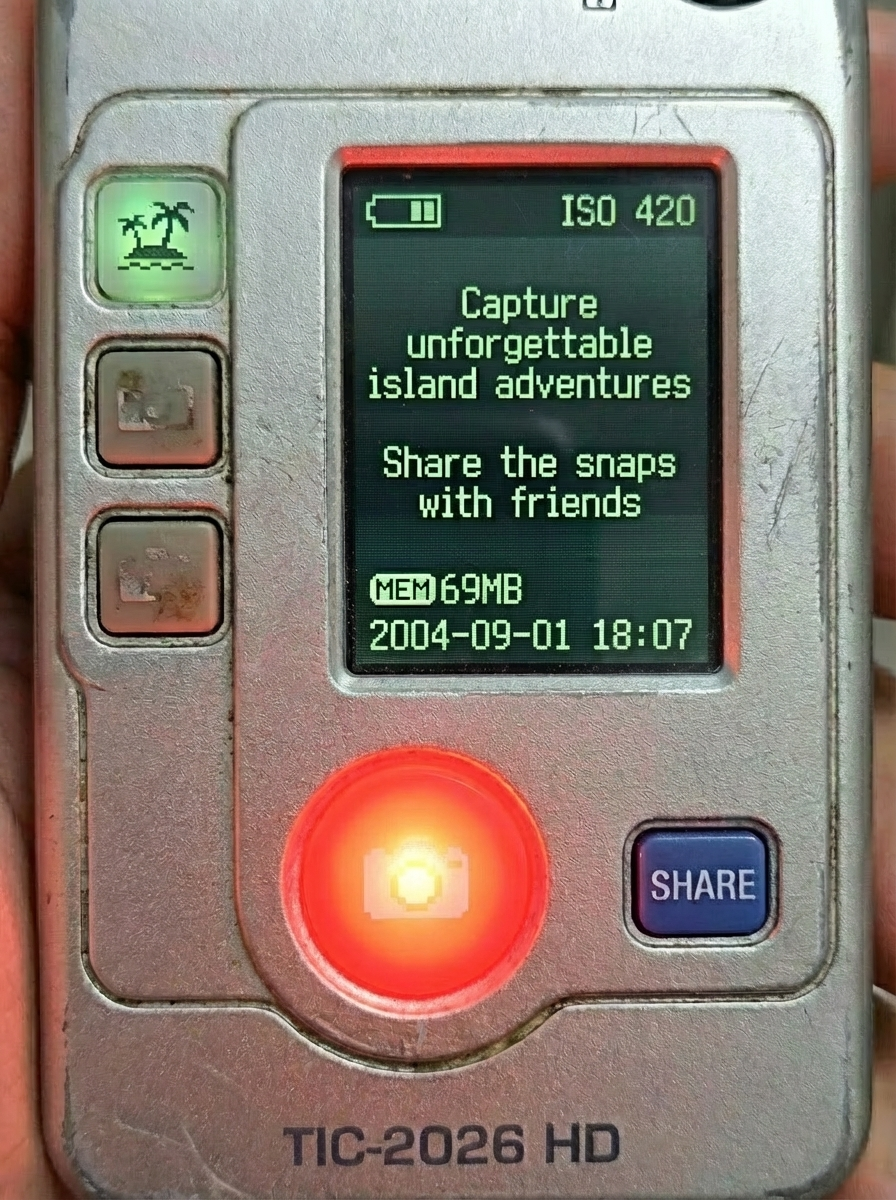
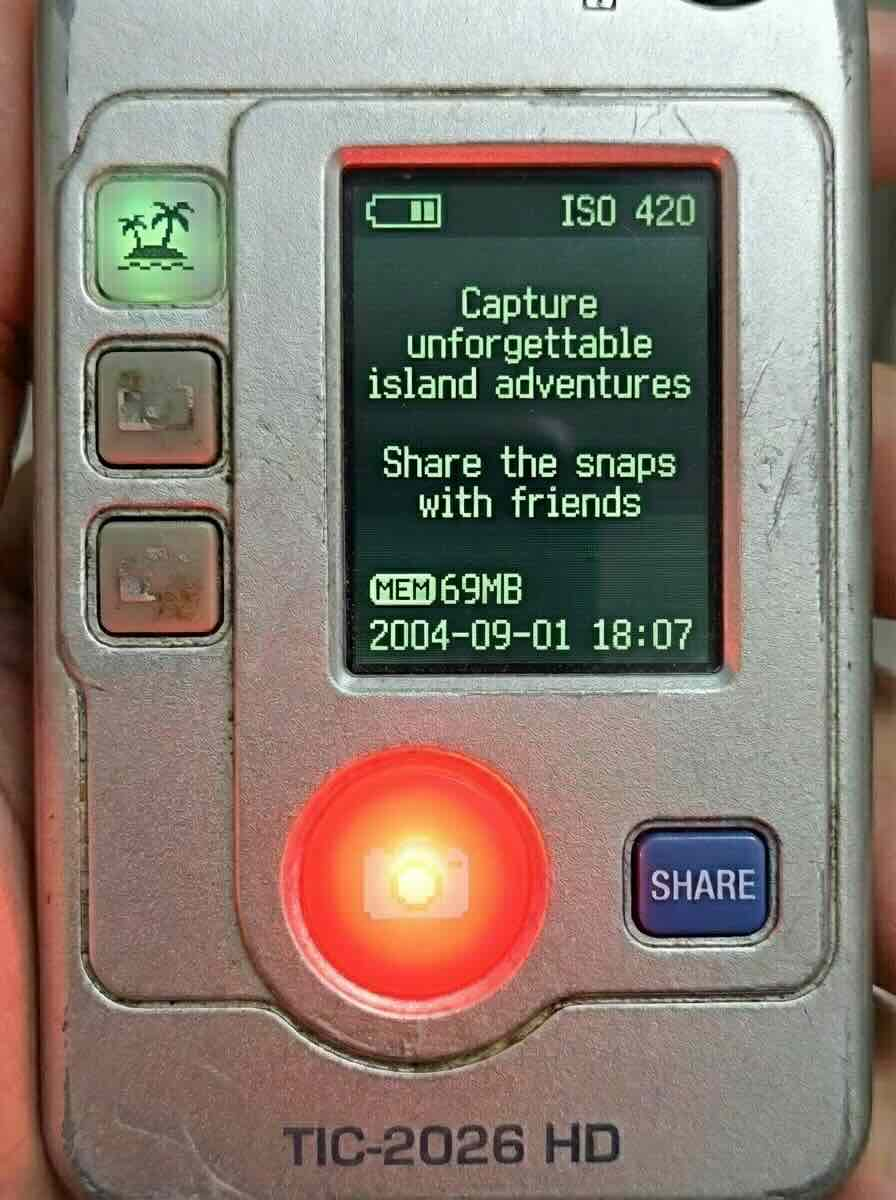
compressed pics

diff --git a/tma/app.js b/tma/app.js
@@ -65,7 +65,6 @@ function getTelegramUserId() {
 
 function enableShare(enabled) {
   shareZone.disabled = !enabled;
-  // (optional) make it feel “disabled” even though it’s transparent
   shareZone.style.pointerEvents = enabled ? "auto" : "none";
 }
 
@@ -137,8 +136,8 @@ if (tg?.onEvent) {
 /**
  * UI states:
  * - idle: blink 1<->2, capture enabled, share disabled
- * - uploading: show 3, share disabled
- * - ready: blink 4<->5, share enabled (only after preparedInline exists)
+ * - uploading: blink 3<->31, share disabled
+ * - ready: blink 4<->5, share enabled
  */
 
 function setIdleState() {
@@ -153,11 +152,10 @@ function setIdleState() {
 }
 
 async function setUploadingStateAndProcess(file) {
-  stopBlink();
-  setUi("3.jpg");
+  // While waiting, blink 3 <-> 31
   enableShare(false);
-
   setHint("Processing…");
+  startBlink("3.jpg", "31.jpg");
 
   // cancel previous echo
   if (inFlightEcho) inFlightEcho.abort();
@@ -167,14 +165,18 @@ async function setUploadingStateAndProcess(file) {
     // 1) Echo through backend
     echoedFile = await echoFileThroughBackend(file, inFlightEcho.signal);
 
-    // 2) Prepare Telegram share in background
+    // 2) Prepare Telegram share
     if (!telegramShareSupported()) {
+      stopBlink();
+      setUi("3.jpg");
       setHint("Open inside Telegram to share.");
       return;
     }
 
     const userId = getTelegramUserId();
     if (!userId) {
+      stopBlink();
+      setUi("3.jpg");
       setHint("Open inside Telegram to share.");
       return;
     }
@@ -182,17 +184,23 @@ async function setUploadingStateAndProcess(file) {
     setHint("Preparing share…");
     preparedInline = await savePreparedInlineMessage(echoedFile, userId);
 
-    // 3) Now it's “shareable”: blink 4<->5 and enable share zone
+    // 3) Ready
     if (isPreparedValid(preparedInline)) {
       enableShare(true);
       setHint("Ready. Tap SHARE.");
       startBlink("4.jpg", "5.jpg");
     } else {
       preparedInline = null;
+      stopBlink();
+      setUi("3.jpg");
       setHint("Share prepare failed. Try again.");
     }
   } catch (e) {
     if (e?.name === "AbortError") return;
+    preparedInline = null;
+    enableShare(false);
+    stopBlink();
+    setUi("3.jpg");
     setHint(`Failed: ${e?.message || String(e)}`);
   }
 }
@@ -201,7 +209,6 @@ async function setUploadingStateAndProcess(file) {
 
 // Capture: open file picker/camera
 captureZone.addEventListener("click", () => {
-  // Must be direct gesture -> keep it synchronous
   fileInput.click();
 });
 
@@ -223,7 +230,7 @@ shareZone.addEventListener("click", async () => {
   }
 
   try {
-    // If prepared expired/missing, recreate (may take a moment)
+    // If prepared expired/missing, recreate
     if (!isPreparedValid(preparedInline)) {
       enableShare(false);
       setHint("Refreshing share…");
@@ -236,7 +243,6 @@ shareZone.addEventListener("click", async () => {
       return;
     }
 
-    // Share via Telegram chat picker
     tg.shareMessage(preparedInline.id, (ok) => {
       setHint(ok ? "Shared to Telegram." : "Share closed.");
     });
@@ -262,7 +268,7 @@ fileInput.addEventListener("change", async () => {
 
 /* --- boot --- */
 
-preloadImages(["1.jpg", "2.jpg", "3.jpg", "4.jpg", "5.jpg"]);
+preloadImages(["1.jpg", "2.jpg", "3.jpg", "31.jpg", "4.jpg", "5.jpg"]);
 setIdleState();
 
 window.addEventListener("beforeunload", () => {
